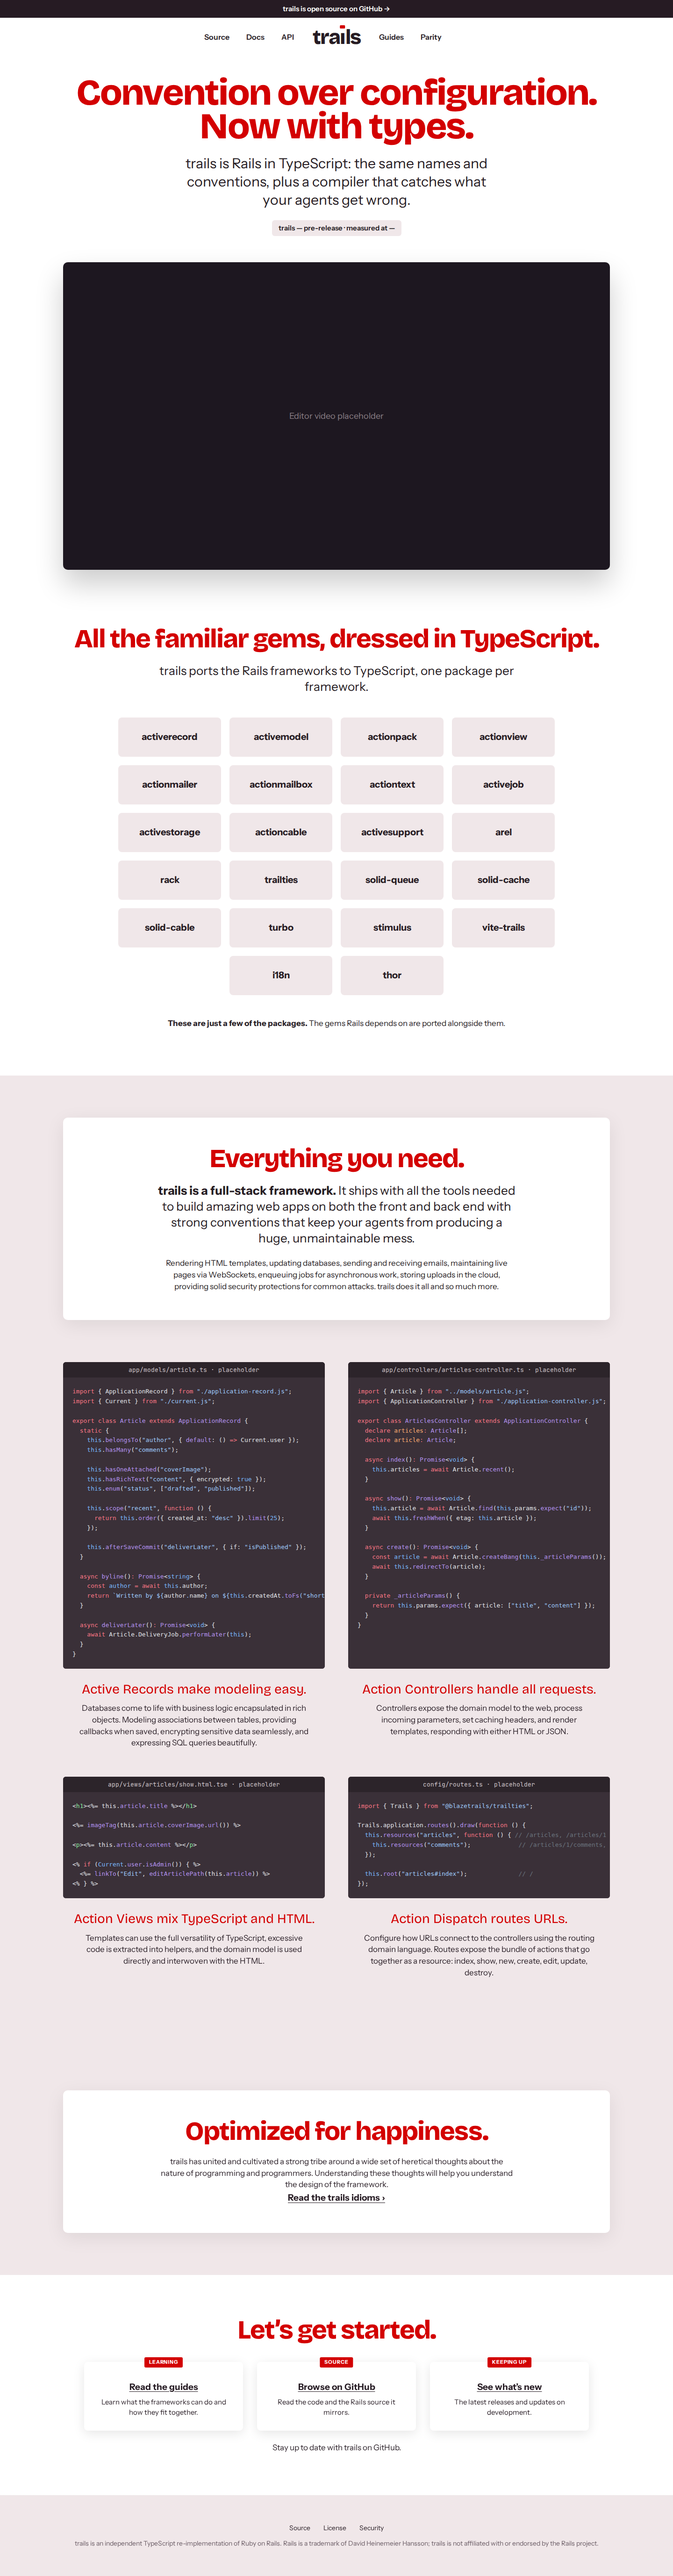
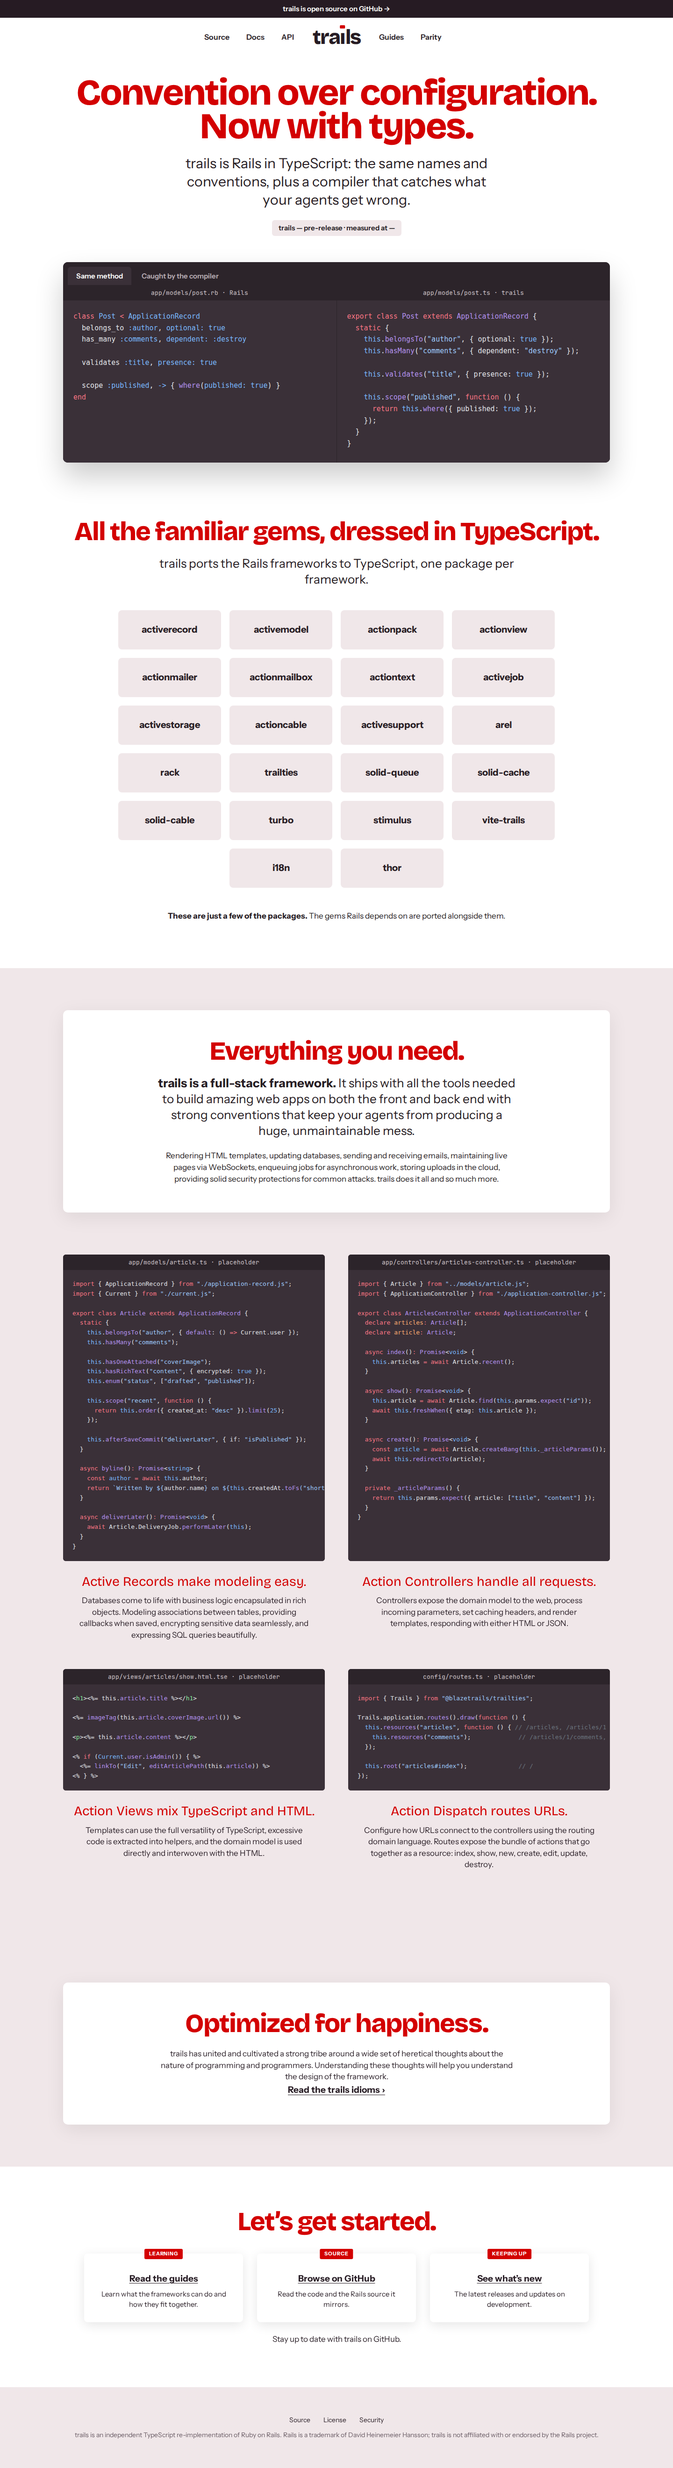
docs(0247): landing copy story drops the video; refresh screenshots

Changed region(s): [[0.0625, 0.0, 0.9375, 0.9371], [0.6875, 0.9059, 0.8125, 0.9371], [0.1875, 0.9059, 0.3125, 0.9371]]

diff --git a/rfcs/0247-website-refresh/stories/website-landing-copy-rewrite.md b/rfcs/0247-website-refresh/stories/website-landing-copy-rewrite.md
@@ -1,5 +1,5 @@
 ---
-title: "Rewrite the landing page copy in trails' own words and record the editor video"
+title: "Rewrite the landing page copy in trails' own words"
 status: ready
 updated: 2026-11-19
 rfc: "0247-website-refresh"
@@ -18,10 +18,9 @@ closed-reason: null
 
 ## Context
 
-trails#10367 rebuilt `packages/website/src/routes/+page.svelte` on rubyonrails.org's layout. On 2026-11-19 the operator directed that it start from rubyonrails.org's own copy, to be iterated on. So the hero, "You're in good company", "Building it together", "Everything you need", the four code captions, "Optimized for happiness" and "Let's get started" carry rubyonrails.org's sentences, lightly adapted. The editor video is a placeholder box (operator: reproduce it as a later step). Reference captures are in this RFC's `assets/` (`rubyonrails-org-1440-viewport-*.png`).
+trails#10367 rebuilt `packages/website/src/routes/+page.svelte` on rubyonrails.org's layout. On 2026-11-19 the operator directed that it start from rubyonrails.org's own copy, to be iterated on. So the hero, "You're in good company", "Building it together", "Everything you need", the four code captions, "Optimized for happiness" and "Let's get started" carry rubyonrails.org's sentences, lightly adapted. The operator dropped the editor video: the hero frame holds two tabs, a Rails/trails split of one model and a `tsc` error caught on it (trails#10367). Reference captures are in this RFC's `assets/` (`rubyonrails-org-1440-viewport-*.png`).
 
 ## Acceptance criteria
 
 - [ ] Every sentence on the landing page is trails' own wording, iterated with the operator from the rubyonrails.org starting copy. The original "no copied sentence" criterion of `website-landing-page-rebuild` is met, or the operator rules otherwise and the RFC records that ruling.
-- [ ] The hero's video placeholder is replaced with a trails editor recording, made the way the reference's is, or is filed as its own story.
 - [ ] Screenshots at 1440 and 390 are attached to the PR.
